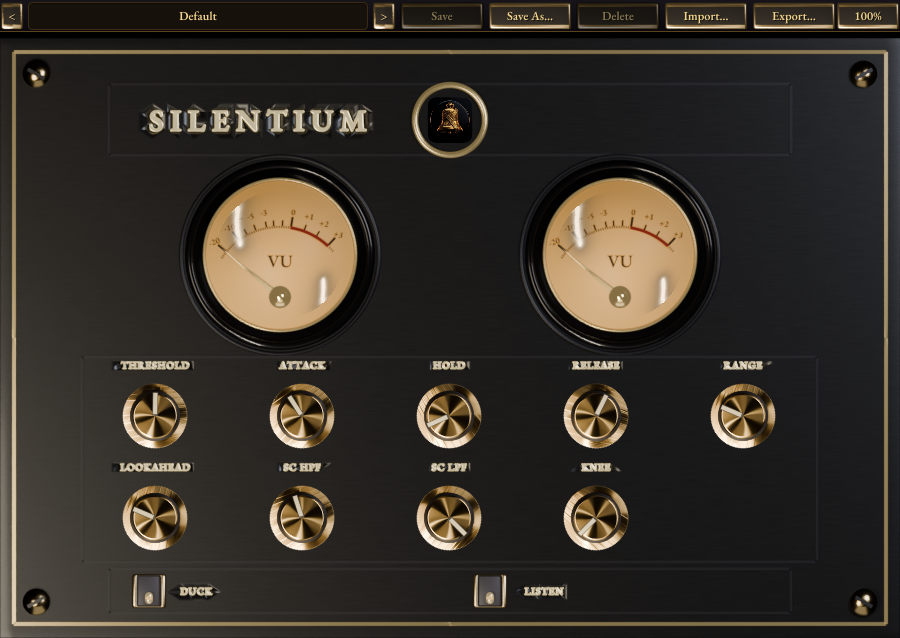
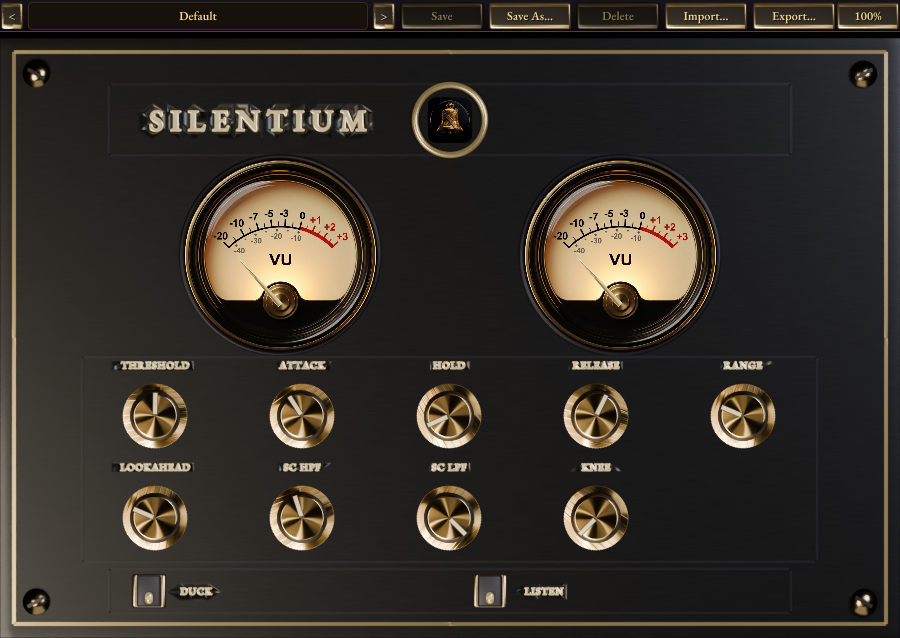
feat(gui): vu-nano-v1 face + rotating needle
Replace the vu-dome-v1 circular meter (face+needle+glass) with the
nano-banana-approved Weston-style VU face, promoted as the reusable
Basilica Audio VU component. The needle is a separate Blender-rendered
brass blade (no baked hub, rest pose straight up); pivot and the
dB->angle tick table are measured directly off the face art (numpy
polar-unwrap analysis, see .scaffold/gui-assets/vu-nano-v1/) rather
than hand-tuned.

- AnalogMeter::Assets now holds a single face/needle Image pair (no
  @user/@user tiers, no glass layer - vu-nano-v1 ships one 1024px render
  per layer); rotation is applied directly at the measured angle since
  the needle asset's own rest pose is 0 deg.
- Meter bay geometry (PluginEditorLayout.h) is UNCHANGED - the visible
  dial still exactly fills the existing 190px bays, only the
  (transparent, mouse-transparent) margin fraction grew internally.
- Face asset shipped is a masked derivative of the approved
  vu-face-no-needle.png (alpha rewritten to 0 outside the measured
  bezel radius; RGB untouched) so the existing bay-overhang layout
  convention keeps working with an opaque-background source render.
- Regenerated docs/gui-preview.png via the editor snapshot test.

88/88 tests green (Debug, native arm64); standalone launched and
quit cleanly with both meters rendering and animating correctly.

Changed region(s): [[0.1867, 0.2382, 0.4356, 0.5658], [0.56, 0.2382, 0.8089, 0.5658]]

diff --git a/src/gui/AnalogMeter.h b/src/gui/AnalogMeter.h
@@ -4,15 +4,16 @@
 #include <array>
 #include <atomic>
 
-// Suite-reusable analog-style meter: a static face + glass overlay
-// (pre-rendered Blender PNGs - since v0.3.1 the circular glass-dome family,
-// see .scaffold/gui-assets/vu-dome-v1/README.md) with a needle image rotated
-// live via juce::AffineTransform around the face's baked pivot rivet. The
-// needle image is rendered once, at rest, pointing at the face's lowest
-// scale tick - JUCE only ever applies an ADDITIONAL rotation delta on top of
-// that baked rest orientation, so at the lowest tick the needle draws with
-// zero extra rotation and lands exactly on the rivet mark the asset was
-// authored against.
+// Suite-reusable analog-style meter: a static face + needle image rotated
+// live via juce::AffineTransform around the face's baked pivot rivet - both
+// pre-rendered assets from the nano-banana-approved vu-nano-v1 family (see
+// .scaffold/gui-assets/vu-nano-v1/README.md, promoted here from Silentium as
+// the reusable Basilica Audio VU component, v0.3.2). Unlike the earlier
+// vu-brass-v1/vu-dome-v1 families, vu-nano-v1 ships a SINGLE 1024x1024 tier
+// per layer (no @1x/@2x pair, no separate glass decal - the face's own baked
+// highlight carries that read) and the needle is authored at rest pointing
+// STRAIGHT UP (0 deg / 12 o'clock), so JUCE applies the measured dB->angle
+// value directly as the rotation - no "rest angle" subtraction.
 namespace basilica::gui
 {
     class AnalogMeter : public juce::Component, private juce::Timer
@@ -20,9 +21,8 @@ namespace basilica::gui
     public:
         struct Assets
         {
-            juce::Image face1x, face2x;
-            juce::Image needle1x, needle2x;
-            juce::Image glass1x, glass2x;
+            juce::Image face;
+            juce::Image needle;
         };
 
         AnalogMeter (Assets assetsIn, juce::String accessibleTitle);
@@ -46,24 +46,30 @@ namespace basilica::gui
         static float stepBallistics (float currentSmoothed, float target, float dtSeconds, float tauSeconds) noexcept;
 
         // dB -> face-relative rotation angle in degrees, piecewise-linearly
-        // interpolated across the asset's own baked tick table (see the .cpp
-        // - copied verbatim from render_vu_meter.py's TICKS, the ground
-        // truth for where the engraved arc's ticks actually sit) and clamped
-        // beyond the table's ends. Exposed for unit testing.
+        // interpolated across the asset's own measured tick table (see the
+        // .cpp - copied verbatim from .scaffold/gui-assets/vu-nano-v1/
+        // vu-metadata.json's tick_angle_at_db, the ground truth for where
+        // this face's engraved arc ticks actually sit, measured by
+        // analyze_face.py) and clamped beyond the table's ends. Exposed for
+        // unit testing. Degrees are clockwise from straight-up (12 o'clock) -
+        // this IS the needle's absolute rotation angle (the needle asset's
+        // own rest pose is 0 deg / straight up), unlike vu-dome-v1's table
+        // which needed a rest-angle delta subtracted first.
         static float tickAngleDegreesForDb (float db) noexcept;
 
-        // vu-dome-v1's visible content (bezel outer edge) spans 95% of the
-        // rendered canvas (render_vu_dome_v1.py's BEZEL_OUTER_R = 0.95 under
-        // ortho_scale 2.0), with a thin fully transparent margin around it.
-        // A layout that wants the visible dial to fill a given rectangle
-        // must size this component 1/contentFractionOfCanvas larger than
-        // that rectangle, centred on it (the margin is transparent and this
-        // component never intercepts mouse events, so the tiny overhang is
-        // harmless). See SilentiumAudioProcessorEditor::resized(). v0.3.1:
-        // was 0.5 for vu-brass-v1, whose dial only filled the central half
-        // of its canvas - the ~2x runtime upscale that implied was a direct
-        // cause of the rejected "unscharf" meter rendering.
-        static constexpr float contentFractionOfCanvas = 0.95f;
+        // vu-nano-v1's visible dial (bezel outer edge) spans face_diameter_px
+        // / canvas_size_px = 808.5 / 1024 of the rendered canvas
+        // (vu-metadata.json), with a transparent margin around it (see
+        // .scaffold/gui-assets/vu-nano-v1/mask_face.py - the approved face
+        // render is fully OPAQUE with a baked black background; mask_face.py
+        // derives the shippable transparent-margin PNG this component
+        // actually draws, matching this component's own bay-overhang
+        // convention). A layout that wants the visible dial to fill a given
+        // rectangle must size this component 1/contentFractionOfCanvas
+        // larger than that rectangle, centred on it (the margin is
+        // transparent and this component never intercepts mouse events, so
+        // the overhang is harmless). See SilentiumAudioProcessorEditor::resized().
+        static constexpr float contentFractionOfCanvas = 808.5f / 1024.0f;
 
     private:
         // A-07 fix (M3 a11y review): read-only accessibility value
@@ -77,9 +83,6 @@ namespace basilica::gui
         class MeterValueInterface;
 
         void timerCallback() override;
-        const juce::Image& faceForCurrentWidth() const noexcept;
-        const juce::Image& needleForCurrentWidth() const noexcept;
-        const juce::Image& glassForCurrentWidth() const noexcept;
 
         Assets assets;
         juce::String title;
@@ -87,15 +90,14 @@ namespace basilica::gui
         std::atomic<float> targetDb { -100.0f };
         float smoothedDb = -100.0f;
 
-        // Needle pivot as a fraction of the layer canvas, derived from
-        // render_vu_dome_v1.py's own scene: PIVOT world (0, -0.42) on a
-        // square canvas spanning world y [-1, 1] (ortho_scale 2.0) ->
-        // fraction from the top = (1 + 0.42) / 2 = 0.71. The needle layer
-        // is rendered at rest pointing at the lowest tick (-20 dB / -50deg);
-        // JUCE only ever applies an ADDITIONAL rotation delta on top of
-        // that baked rest orientation, around this pivot point.
-        static constexpr float pivotXFraction = 0.5f;
-        static constexpr float pivotYFraction = 0.71f;
+        // Needle pivot as a fraction of the layer canvas - measured directly
+        // on vu-face-no-needle.png by analyze_face.py (brass-hub centroid,
+        // HSV hue/saturation thresholding), see vu-metadata.json's
+        // pivot_frac_xy. MUST stay in sync with the face/needle assets: if
+        // either is re-rendered, re-run analyze_face.py and update both this
+        // pair and the tick table together.
+        static constexpr float pivotXFraction = 0.499838f;
+        static constexpr float pivotYFraction = 0.706359f;
 
         static constexpr double timerHz = 30.0;
         static constexpr float ballisticsTauSeconds = 0.3f;

diff --git a/src/gui/AnalogMeter.cpp b/src/gui/AnalogMeter.cpp
@@ -1,17 +1,16 @@
 #include "AnalogMeter.h"
-#include "ImageDensity.h"
 
 namespace
 {
-    // Copied verbatim from .scaffold/gui-assets/render_vu_dome_v1.py's TICKS
-    // table (the actual generator of the circular dome face's engraved arc)
-    // - (dB, degrees clockwise from straight-up, matching
-    // juce::AffineTransform::rotated's "clockwise" convention once the
-    // source PNG is read as ordinary pixel-space image data). v0.3.1: the
-    // vu-dome-v1 asset family sweeps a classic ~93-degree VU arc (-50..+43,
-    // 0 dB right-of-centre) - the old vu-brass-v1 80-degree table does NOT
-    // match this asset and must never be restored without also restoring
-    // the old rectangular face art. Not evenly spaced - hand-tuned classic
+    // Copied verbatim from .scaffold/gui-assets/vu-nano-v1/vu-metadata.json's
+    // tick_angle_at_db (measured by analyze_face.py against
+    // vu-face-no-needle.png - see that script's docstring for the polar
+    // "unwrap" method). v0.3.2: the vu-nano-v1 asset family - this table is
+    // NOT interchangeable with vu-dome-v1's old ~93-degree table even though
+    // the two happen to look superficially similar (both classic VU arcs);
+    // a side-by-side overlay confirmed the old table's rays land measurably
+    // off this face's actual tick marks. Nine labelled ticks (-20 dB has the
+    // widest sweep down to +3 dB), not evenly spaced - a hand-tuned classic
     // VU arc, not a physically derived curve.
     struct Tick
     {
@@ -19,11 +18,10 @@ namespace
         float deg;
     };
 
-    constexpr std::array<Tick, 11> ticks {
-        Tick { -20.0f, -50.0f }, Tick { -10.0f, -36.0f }, Tick { -7.0f, -28.0f },
-        Tick { -5.0f, -20.0f }, Tick { -3.0f, -11.0f }, Tick { -2.0f, -5.0f },
-        Tick { -1.0f, 2.0f }, Tick { 0.0f, 9.0f }, Tick { 1.0f, 20.0f },
-        Tick { 2.0f, 31.0f }, Tick { 3.0f, 43.0f }
+    constexpr std::array<Tick, 9> ticks {
+        Tick { -20.0f, -41.94f }, Tick { -10.0f, -27.69f }, Tick { -7.0f, -16.31f },
+        Tick { -5.0f, -6.47f }, Tick { -3.0f, 3.19f }, Tick { 0.0f, 14.08f },
+        Tick { 1.0f, 23.39f }, Tick { 2.0f, 32.71f }, Tick { 3.0f, 42.04f }
     };
 }
 
@@ -37,10 +35,10 @@ namespace basilica::gui
 
         // Pure display - never steals mouse events from controls that may
         // sit under this component's (partly transparent) bounds. Relevant
-        // because vu-brass-v1's layers carry large transparent margins
-        // around the dial content (see contentFractionOfCanvas in
-        // AnalogMeter.h), so the component is deliberately laid out larger
-        // than the visible dial.
+        // because vu-nano-v1's layers carry a transparent margin around the
+        // dial content (see contentFractionOfCanvas in AnalogMeter.h), so
+        // the component is deliberately laid out larger than the visible
+        // dial.
         setInterceptsMouseClicks (false, false);
 
         startTimerHz ((int) timerHz);
@@ -95,53 +93,31 @@ namespace basilica::gui
         }
     }
 
-    const juce::Image& AnalogMeter::faceForCurrentWidth() const noexcept
-    {
-        const auto native1xWidth = assets.face1x.isValid() ? assets.face1x.getWidth() : (assets.face2x.getWidth() / 2);
-        return basilica::gui::pickImageForWidth (assets.face1x, assets.face2x, native1xWidth, getWidth());
-    }
-
-    const juce::Image& AnalogMeter::needleForCurrentWidth() const noexcept
-    {
-        const auto native1xWidth = assets.needle1x.isValid() ? assets.needle1x.getWidth() : (assets.needle2x.getWidth() / 2);
-        return basilica::gui::pickImageForWidth (assets.needle1x, assets.needle2x, native1xWidth, getWidth());
-    }
-
-    const juce::Image& AnalogMeter::glassForCurrentWidth() const noexcept
-    {
-        const auto native1xWidth = assets.glass1x.isValid() ? assets.glass1x.getWidth() : (assets.glass2x.getWidth() / 2);
-        return basilica::gui::pickImageForWidth (assets.glass1x, assets.glass2x, native1xWidth, getWidth());
-    }
-
     void AnalogMeter::paint (juce::Graphics& g)
     {
         const auto bounds = getLocalBounds().toFloat();
 
-        const auto& face = faceForCurrentWidth();
-        if (face.isValid())
-            g.drawImage (face, bounds);
+        if (assets.face.isValid())
+            g.drawImage (assets.face, bounds);
 
-        const auto& needle = needleForCurrentWidth();
-        if (needle.isValid())
+        if (assets.needle.isValid())
         {
-            const auto sx = bounds.getWidth() / (float) needle.getWidth();
-            const auto sy = bounds.getHeight() / (float) needle.getHeight();
+            const auto sx = bounds.getWidth() / (float) assets.needle.getWidth();
+            const auto sy = bounds.getHeight() / (float) assets.needle.getHeight();
             const auto pivotX = bounds.getWidth() * pivotXFraction;
             const auto pivotY = bounds.getHeight() * pivotYFraction;
 
-            const auto restDeg = ticks.front().deg;
+            // vu-nano-v1's needle is rendered at rest pointing straight up
+            // (0 deg) - the measured tick angle IS the absolute rotation,
+            // no rest-angle delta to subtract (unlike vu-dome-v1).
             const auto targetDeg = tickAngleDegreesForDb (smoothedDb);
-            const auto deltaRadians = juce::degreesToRadians (targetDeg - restDeg);
+            const auto radians = juce::degreesToRadians (targetDeg);
 
             const auto transform = juce::AffineTransform::scale (sx, sy)
-                                        .rotated (deltaRadians, pivotX, pivotY);
+                                        .rotated (radians, pivotX, pivotY);
 
-            g.drawImageTransformed (needle, transform);
+            g.drawImageTransformed (assets.needle, transform);
         }
-
-        const auto& glass = glassForCurrentWidth();
-        if (glass.isValid())
-            g.drawImage (glass, bounds);
     }
 
     // A-07 fix (M3 a11y review): a read-only text value interface exposing

diff --git a/src/PluginEditor.cpp b/src/PluginEditor.cpp
@@ -87,16 +87,17 @@ namespace
 
     basilica::gui::AnalogMeter::Assets makeMeterAssets()
     {
-        // v0.3.1: circular glass-dome meter layers (vu-dome-v1), 200px @1x /
-        // 400px @2x - sized so the visible bezel fills the 190px meter bay
-        // at 100% with NO upscaling (see AnalogMeter::contentFractionOfCanvas).
+        // v0.3.2: nano-banana-approved Weston-style VU face + needle
+        // (vu-nano-v1, promoted from Silentium as the reusable Basilica
+        // Audio VU component) - single 1024x1024 tier per layer, no
+        // separate glass decal. The face asset embedded here is the MASKED
+        // derivative (transparent margin outside the measured bezel radius,
+        // see .scaffold/gui-assets/vu-nano-v1/mask_face.py), not the
+        // approved-but-opaque vu-face-no-needle.png the asset pipeline ships
+        // as its reference original.
         basilica::gui::AnalogMeter::Assets assets;
-        assets.face1x = loadImage (BinaryData::vu_dome_face_200x200_png, BinaryData::vu_dome_face_200x200_pngSize);
-        assets.face2x = loadImage (BinaryData::vu_dome_face_400x400_png, BinaryData::vu_dome_face_400x400_pngSize);
-        assets.needle1x = loadImage (BinaryData::vu_dome_needle_200x200_png, BinaryData::vu_dome_needle_200x200_pngSize);
-        assets.needle2x = loadImage (BinaryData::vu_dome_needle_400x400_png, BinaryData::vu_dome_needle_400x400_pngSize);
-        assets.glass1x = loadImage (BinaryData::vu_dome_glass_200x200_png, BinaryData::vu_dome_glass_200x200_pngSize);
-        assets.glass2x = loadImage (BinaryData::vu_dome_glass_400x400_png, BinaryData::vu_dome_glass_400x400_pngSize);
+        assets.face = loadImage (BinaryData::vu_nano_face_1024x1024_png, BinaryData::vu_nano_face_1024x1024_pngSize);
+        assets.needle = loadImage (BinaryData::vu_nano_needle_1024x1024_png, BinaryData::vu_nano_needle_1024x1024_pngSize);
         return assets;
     }
 }
@@ -312,10 +313,10 @@ void SilentiumAudioProcessorEditor::resized()
                                      s (plateLocal.getHeight()));
     };
 
-    // The vu-dome layers' visible bezel spans contentFractionOfCanvas (95%)
-    // of their canvas - expand each meter's bounds around its bay's centre
-    // so the VISIBLE dial fills the engraved seat exactly. The thin overhang
-    // is fully transparent and mouse-transparent.
+    // vu-nano-v1's visible bezel spans contentFractionOfCanvas (~79%) of its
+    // canvas - expand each meter's bounds around its bay's centre so the
+    // VISIBLE dial fills the engraved seat exactly. The margin is
+    // transparent (see mask_face.py) and mouse-transparent.
     const auto expandMeterBounds = [] (juce::Rectangle<int> bay)
     {
         const auto factor = 1.0f / basilica::gui::AnalogMeter::contentFractionOfCanvas;

diff --git a/tests/gui/AnalogMeterBallisticsTests.cpp b/tests/gui/AnalogMeterBallisticsTests.cpp
@@ -74,21 +74,23 @@ TEST_CASE ("AnalogMeter::tickAngleDegreesForDb interpolates the baked tick table
 {
     using basilica::gui::AnalogMeter;
 
-    // Exact table points (render_vu_dome_v1.py's TICKS, copied into
-    // AnalogMeter.cpp - the v0.3.1 ~93-degree circular-dome arc).
-    CHECK (AnalogMeter::tickAngleDegreesForDb (-20.0f) == Catch::Approx (-50.0f));
-    CHECK (AnalogMeter::tickAngleDegreesForDb (0.0f) == Catch::Approx (9.0f));
-    CHECK (AnalogMeter::tickAngleDegreesForDb (3.0f) == Catch::Approx (43.0f));
+    // Exact table points (.scaffold/gui-assets/vu-nano-v1/vu-metadata.json's
+    // tick_angle_at_db, measured by analyze_face.py against
+    // vu-face-no-needle.png and copied into AnalogMeter.cpp - the v0.3.2
+    // nano-banana VU face's own measured arc, NOT vu-dome-v1's old table).
+    CHECK (AnalogMeter::tickAngleDegreesForDb (-20.0f) == Catch::Approx (-41.94f));
+    CHECK (AnalogMeter::tickAngleDegreesForDb (0.0f) == Catch::Approx (14.08f));
+    CHECK (AnalogMeter::tickAngleDegreesForDb (3.0f) == Catch::Approx (42.04f));
 
     SECTION ("midpoint between two adjacent ticks interpolates linearly")
     {
-        // -10 -> -36deg, -7 -> -28deg; -8.5 is exactly halfway.
-        CHECK (AnalogMeter::tickAngleDegreesForDb (-8.5f) == Catch::Approx (-32.0f));
+        // -10 -> -27.69deg, -7 -> -16.31deg; -8.5 is exactly halfway.
+        CHECK (AnalogMeter::tickAngleDegreesForDb (-8.5f) == Catch::Approx (-22.0f));
     }
 
     SECTION ("values beyond the table clamp to the nearest end, never extrapolate")
     {
-        CHECK (AnalogMeter::tickAngleDegreesForDb (-60.0f) == Catch::Approx (-50.0f));
-        CHECK (AnalogMeter::tickAngleDegreesForDb (12.0f) == Catch::Approx (43.0f));
+        CHECK (AnalogMeter::tickAngleDegreesForDb (-60.0f) == Catch::Approx (-41.94f));
+        CHECK (AnalogMeter::tickAngleDegreesForDb (12.0f) == Catch::Approx (42.04f));
     }
 }

diff --git a/src/PluginEditorLayout.h b/src/PluginEditorLayout.h
@@ -33,10 +33,14 @@ namespace slnt::layout
     const juce::Point<int> roundelCentre1x { 450, 82 };
     constexpr int roundelRadius1x = 35;
 
-    // v0.3.1: CIRCULAR vu-dome meters (vu-dome-v1 asset family) replace the
-    // old 286x150 rectangular meter bays - square 190px bays, dial centres
-    // (280, 217) and (620, 217), symmetric about the plate centre. Margins
-    // between vertically adjacent bays stay explicit and are asserted by
+    // v0.3.1: CIRCULAR meters replace the old 286x150 rectangular meter
+    // bays - square 190px bays, dial centres (280, 217) and (620, 217),
+    // symmetric about the plate centre. v0.3.2: the meter asset family
+    // changed again (vu-dome-v1 -> vu-nano-v1, see AnalogMeter.h/.cpp) but
+    // this bay geometry did NOT - the visible dial still fills exactly
+    // 190px regardless of the backing asset's own content-fraction/margin,
+    // see AnalogMeter::contentFractionOfCanvas's docs. Margins between
+    // vertically adjacent bays stay explicit and are asserted by
     // tests/gui/EditorLayoutTests.cpp:
     //   headerBay bottom (46 + 71 = 117)
     //     -> 5px margin ->

diff --git a/docs/gui-components.md b/docs/gui-components.md
@@ -13,7 +13,7 @@ design review; the component ARCHITECTURE below is unchanged from the pilot.
 |---|---|---|
 | `FilmstripKnob` | `juce::Slider` (RotaryVerticalDrag) | `knob-brass-v2` 128-frame filmstrip |
 | `FilmstripToggle` | `juce::Button` | `toggle-brass-v2` 4-frame filmstrip (housed switch) |
-| `AnalogMeter` | `juce::Component` + `juce::Timer` | `vu-dome-v1` circular face/needle/glass |
+| `AnalogMeter` | `juce::Component` + `juce::Timer` | `vu-nano-v1` circular face/needle (v0.3.2; was `vu-dome-v1`) |
 | `BasilicaLookAndFeel` | `juce::LookAndFeel_V4` | EB Garamond type system + `button-brass-v1` 3-slice preset-bar caps |
 | `ImageDensity.h` | (free functions) | @1x/@2x tier selection shared by all |
 
@@ -36,15 +36,23 @@ together in one commit: `PluginEditorLayout.h`, the render script, and
 `juce::Label`s in the editor any more; accessible names live on the controls
 themselves (`setTitle`), unchanged.
 
+## v0.3.2 meter asset notes
+
+- **Meters are the nano-banana-approved Weston-style VU face** (`vu-nano-v1`,
+  promoted from Silentium as the reusable Basilica Audio VU component):
+  measured (not hand-tuned) 9-tick arc (-20 dB..+3 dB), amber-backlit dial,
+  needle pivot at canvas fraction (0.499838, 0.706359), visible bezel =
+  face_diameter_px/1024 (~79% of canvas, `contentFractionOfCanvas`) - see
+  `.scaffold/gui-assets/vu-nano-v1/README.md`. Single 1024px tier per layer
+  (no @1x/@2x pair, no separate glass decal - the face's own baked highlight
+  carries that read), and the needle is authored at rest pointing straight
+  up (0 deg), so `AnalogMeter` applies the measured tick angle directly as
+  the rotation with no rest-angle subtraction (unlike the superseded
+  `vu-dome-v1` family). The tick table in `AnalogMeter.cpp` is copied from
+  `vu-metadata.json`'s `tick_angle_at_db` and matches ONLY this face art.
+
 ## v0.3.1 asset notes
 
-- **Meters are circular glass domes** (`vu-dome-v1`): ~93° arc (-50°..+43°,
-  0 dB right-of-centre), amber-backlit dial, needle pivot at canvas fraction
-  (0.5, 0.71), visible bezel = 95% of canvas (`contentFractionOfCanvas`).
-  The v0.3.0 rectangular meters' dial art only filled HALF its canvas and
-  was upscaled ~2x at runtime - the root cause of the rejected soft/blurry
-  meter rendering. The tick table in `AnalogMeter.cpp` is copied from
-  `render_vu_dome_v1.py` and matches ONLY the dome art.
 - **`ImageDensity.h` never upscales any more** (tier margin 1.25 -> 1.0):
   any draw width beyond the @1x native size selects the @2x tier. With the
   stepped 100/150/200% scaling this means every tier choice is a downscale